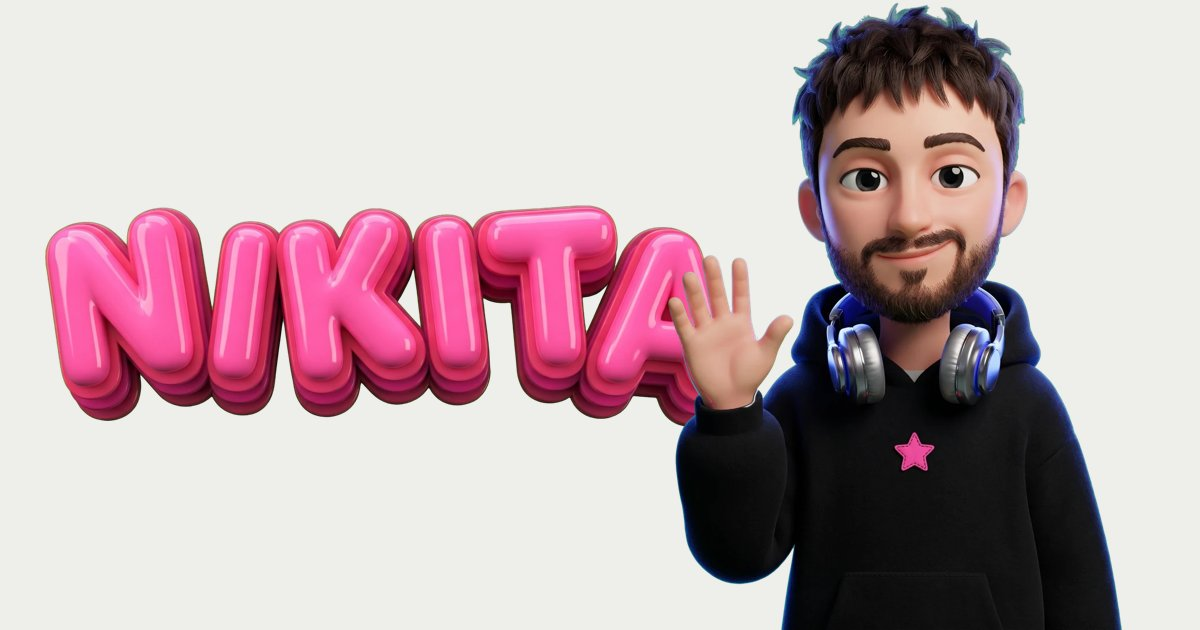
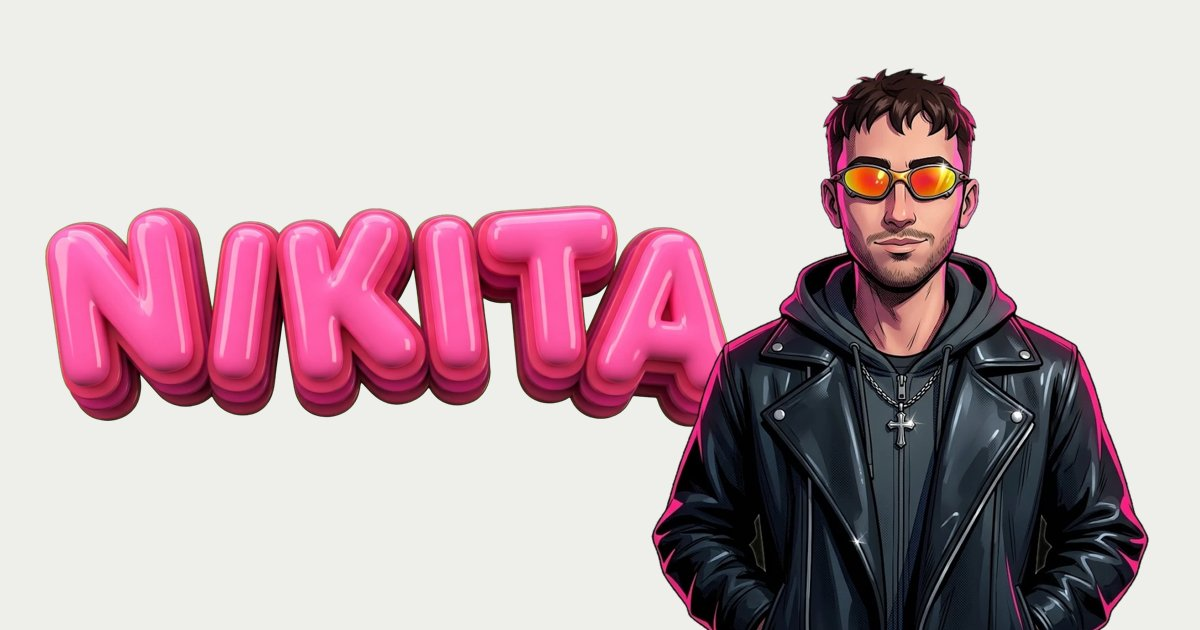
Новый аватар в стиле cel-shading
Claude-Session: https://claude.ai/code/session_01RJbzsK9DEWAtQ5A3RWwSJq

Changed region(s): [[0.5242, 0.0, 0.9558, 1.0]]

diff --git a/index.html b/index.html
@@ -554,8 +554,8 @@ footer.foot .wrap{display:flex;flex-wrap:wrap;justify-content:space-between;gap:
 .me-col{position:relative;padding-top:6%}
 .me{position:relative;cursor:pointer;outline-offset:8px}
 /* карточка-стикер за аватаром; низ аватара обрезается её краем, сверху голова выглядывает */
-.me-card{position:absolute;left:4%;right:4%;top:26%;bottom:0;border-radius:34px;border:3px solid var(--ink);background:radial-gradient(circle at 30% 20%,rgba(255,255,255,.55),transparent 45%),var(--pink);box-shadow:8px 8px 0 var(--ink);overflow:hidden}
-.me-card::before{content:"";position:absolute;inset:0;background-image:radial-gradient(rgba(20,20,20,.16) 1.6px,transparent 1.8px);background-size:16px 16px}
+.me-card{position:absolute;left:4%;right:4%;top:26%;bottom:0;border-radius:34px;border:3px solid var(--ink);background:radial-gradient(70% 60% at 50% 30%,rgba(255,31,122,.55),transparent 70%),linear-gradient(#1b1320,#0d0b10);box-shadow:8px 8px 0 var(--pink);overflow:hidden}
+.me-card::before{content:"";position:absolute;inset:0;background-image:radial-gradient(rgba(255,95,162,.28) 1.4px,transparent 1.7px);background-size:14px 14px}
 .me-clip{position:relative;clip-path:inset(-60% -40% 0 -40% round 0 0 34px 34px)}
 .me-body{position:relative;aspect-ratio:900/1100;transform-origin:50% 100%;animation:sway 6s ease-in-out infinite}
 .me-body img{position:absolute;inset:0;width:100%;height:100%;max-width:none}
@@ -667,7 +667,7 @@ footer.foot .wrap{display:flex;flex-wrap:wrap;justify-content:space-between;gap:
       <div class="me-col">
         <div class="me" id="avatarCard" role="button" tabindex="0" aria-label="Мой 3D-аватар, нажми на него">
           <div class="me-card" aria-hidden="true"></div>
-          <div class="me-clip"><div class="me-body"><img src="a/av-static.webp" alt="" width="900" height="1100"></div></div>
+          <div class="me-clip"><div class="me-body"><img src="a/av-toon.webp" alt="" width="900" height="1100"></div></div>
           <span class="say" id="say">Хей! Я Никита 👋</span>
         </div>
         <div class="name-plate logo-wrap"><img class="logo-img" src="a/02-logo.webp" alt="NIKITA" width="1600" height="530"></div>
